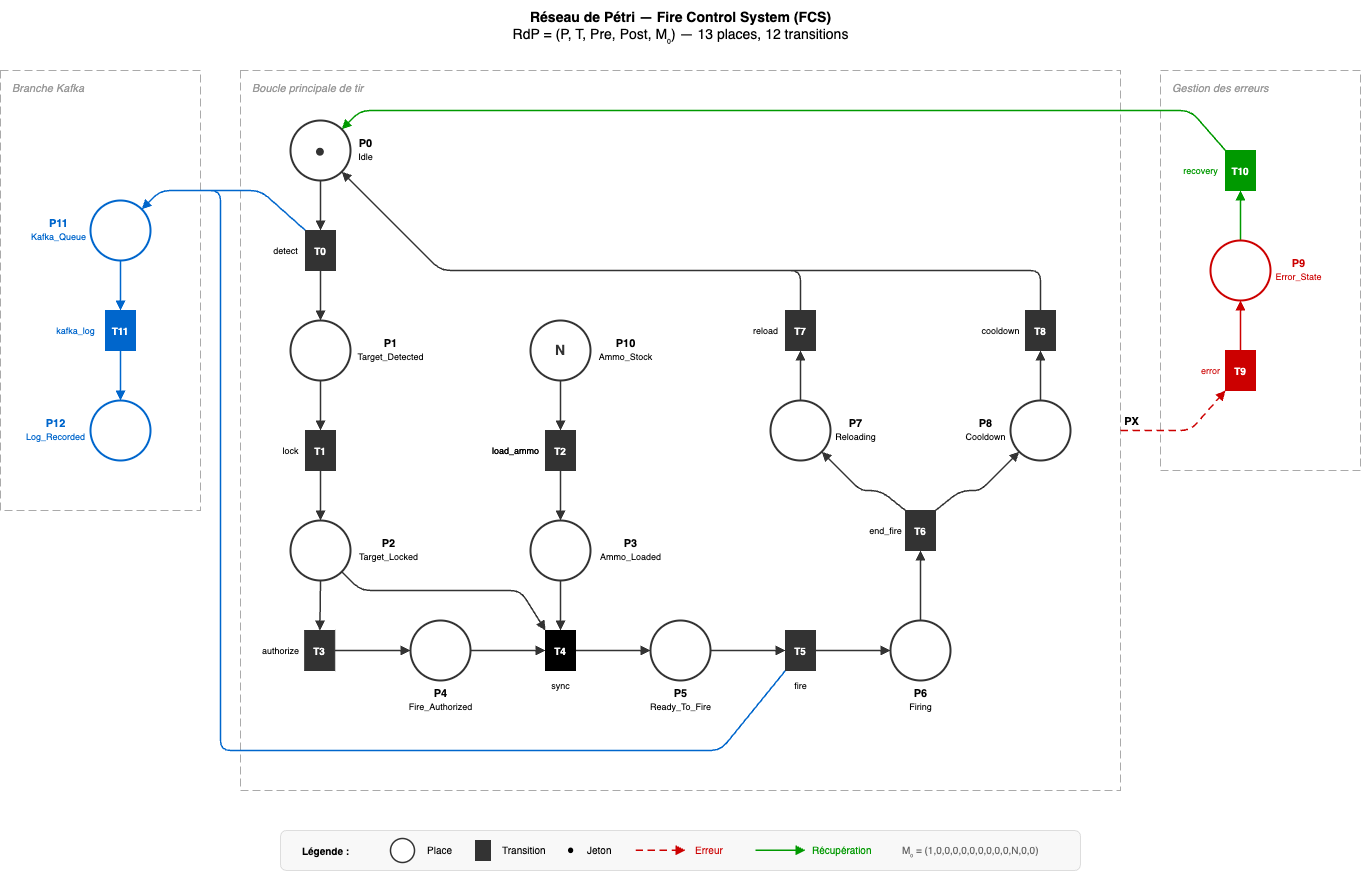
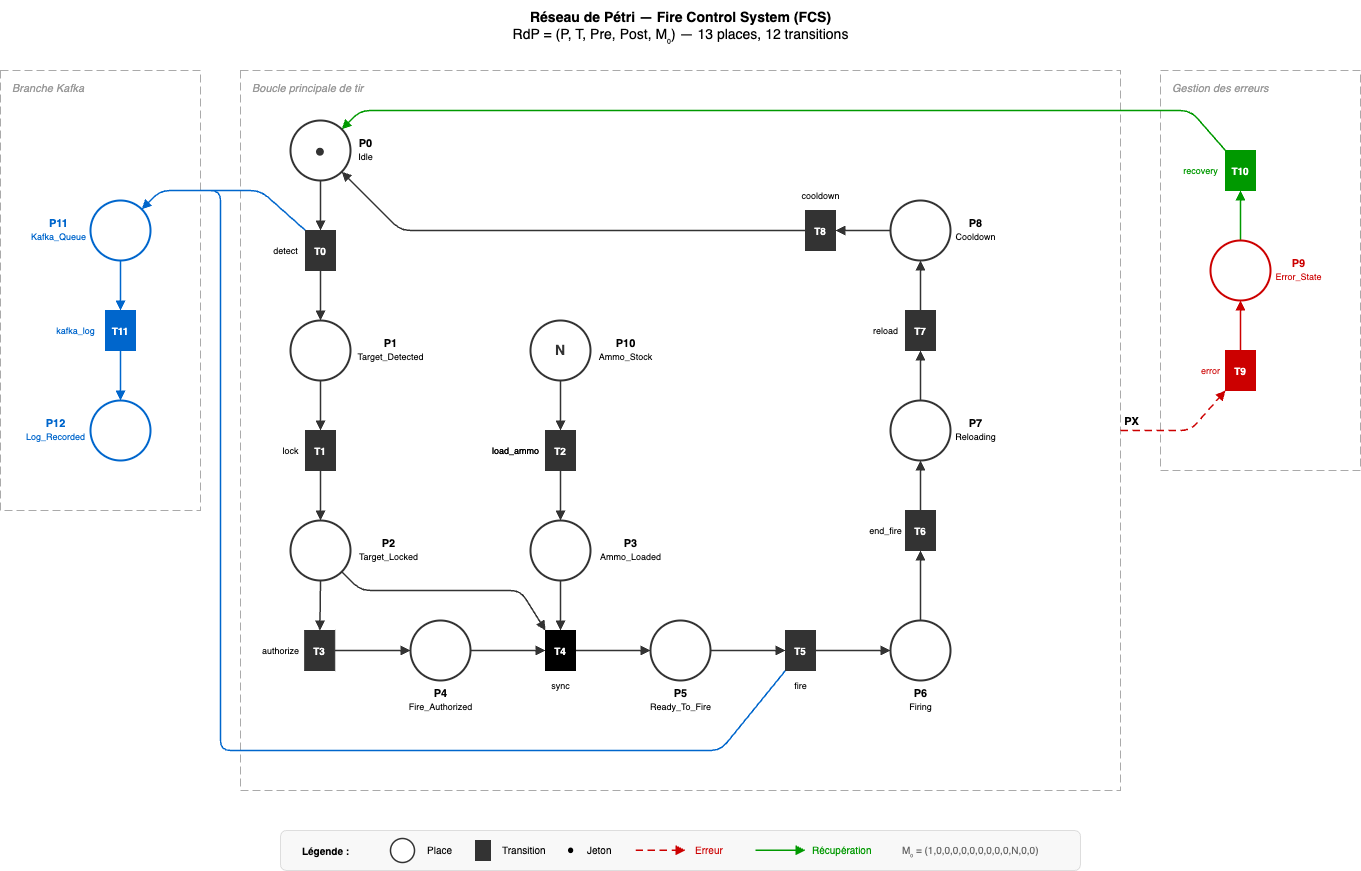
Refactor code structure for improved readability and maintainability

diff --git a/docs/rapport_final/main.tex b/docs/rapport_final/main.tex
@@ -16,6 +16,8 @@
 \usepackage{float}
 \usepackage{pdflscape}
 \usepackage{caption}
+\usepackage[skip=\baselineskip,indent=1.5em]{parskip}
+\usepackage{indentfirst}
 \usepackage[numbers]{natbib}
 \usepackage[hidelinks]{hyperref}
 
@@ -44,7 +46,9 @@
 
 \begin{titlepage}
   \centering
-  \vspace*{2cm}
+  \vspace*{1.2cm}
+  \includegraphics[width=0.32\textwidth]{cy-tech.png}\par
+  \vspace{1.2cm}
   {\Huge\bfseries Fire Control System\par}
   \vspace{0.4cm}
   {\Large Modélisation fonctionnelle, réseau de Petri et vérification formelle\par}
@@ -79,7 +83,13 @@ La démarche suit six axes : état de l'art, modélisation fonctionnelle, traduc
 \chapter{Introduction}
 
 \section{Contexte}
-Un système de contrôle de tir (\emph{Fire Control System}, FCS) appartient à la famille des systèmes critiques : une action incorrecte peut entraîner des conséquences irréversibles. La sûreté du logiciel ne peut donc pas être ramenée à quelques scénarios de test. Le système doit empêcher par construction les situations dangereuses, notamment un tir sans cible verrouillée, sans munition disponible ou sans autorisation.
+Un système de contrôle de tir (\emph{Fire Control System}, FCS) appartient à la famille des systèmes critiques : une action incorrecte peut entraîner des conséquences irréversibles. Il s'agit d'une chaîne de décision qui observe l'environnement, suit une cible, vérifie la disponibilité des ressources, demande une autorisation, puis déclenche ou refuse l'action de tir. Chaque étape porte donc une responsabilité de sûreté : une information absente, incohérente ou traitée trop tôt peut modifier radicalement la décision finale.
+
+La gravité d'un tel système vient du fait qu'un défaut logiciel ne se limite pas à une erreur d'affichage ou à un résultat numérique imprécis. Dans un FCS, une transition mal contrôlée peut conduire à un tir sans cible verrouillée, sans munition cohérente, sans autorisation explicite, pendant une phase de rechargement ou sans journalisation exploitable. Ces situations doivent être impossibles par construction, et non simplement rares dans les tests.
+
+Un exemple concret est celui d'un char qui détecte un véhicule blindé adverse et prépare un tir avec une munition de type \texttt{APFSDS}. Dans l'implémentation, le cycle doit vérifier que la cible est suivie avec une confiance suffisante, que la munition demandée est disponible, que les règles d'engagement autorisent le tir, puis seulement déclencher l'action. Le code distingue plusieurs types de munitions, notamment \texttt{APFSDS}, \texttt{HEAT}, \texttt{HESH} et \texttt{HE}. Le réseau de Petri les abstrait ensuite en un stock borné générique, car la propriété de sûreté étudiée est la disponibilité et la synchronisation de la munition, non la physique détaillée de chaque obus.
+
+Le projet reste une abstraction académique : il ne modélise ni un calcul balistique réel complet, ni une doctrine opérationnelle exhaustive. En revanche, il reprend la discipline des systèmes critiques : comportement \emph{fail-safe}, préconditions explicites, traçabilité des événements et raisonnement exhaustif sur les états atteignables. La sûreté du logiciel ne peut donc pas être ramenée à quelques scénarios de test. Le système doit empêcher par construction les situations dangereuses, notamment un tir sans cible verrouillée, sans munition disponible ou sans autorisation.
 
 Le projet étudié adopte une double approche. D'une part, le comportement opérationnel est réalisé avec le modèle d'acteurs Akka Typed, qui permet de représenter naturellement la concurrence entre capteur, suivi balistique, gestion des munitions, commande et supervision. D'autre part, les comportements critiques sont abstraits dans un réseau de Petri fini afin de permettre une exploration exhaustive de l'espace d'états.
 